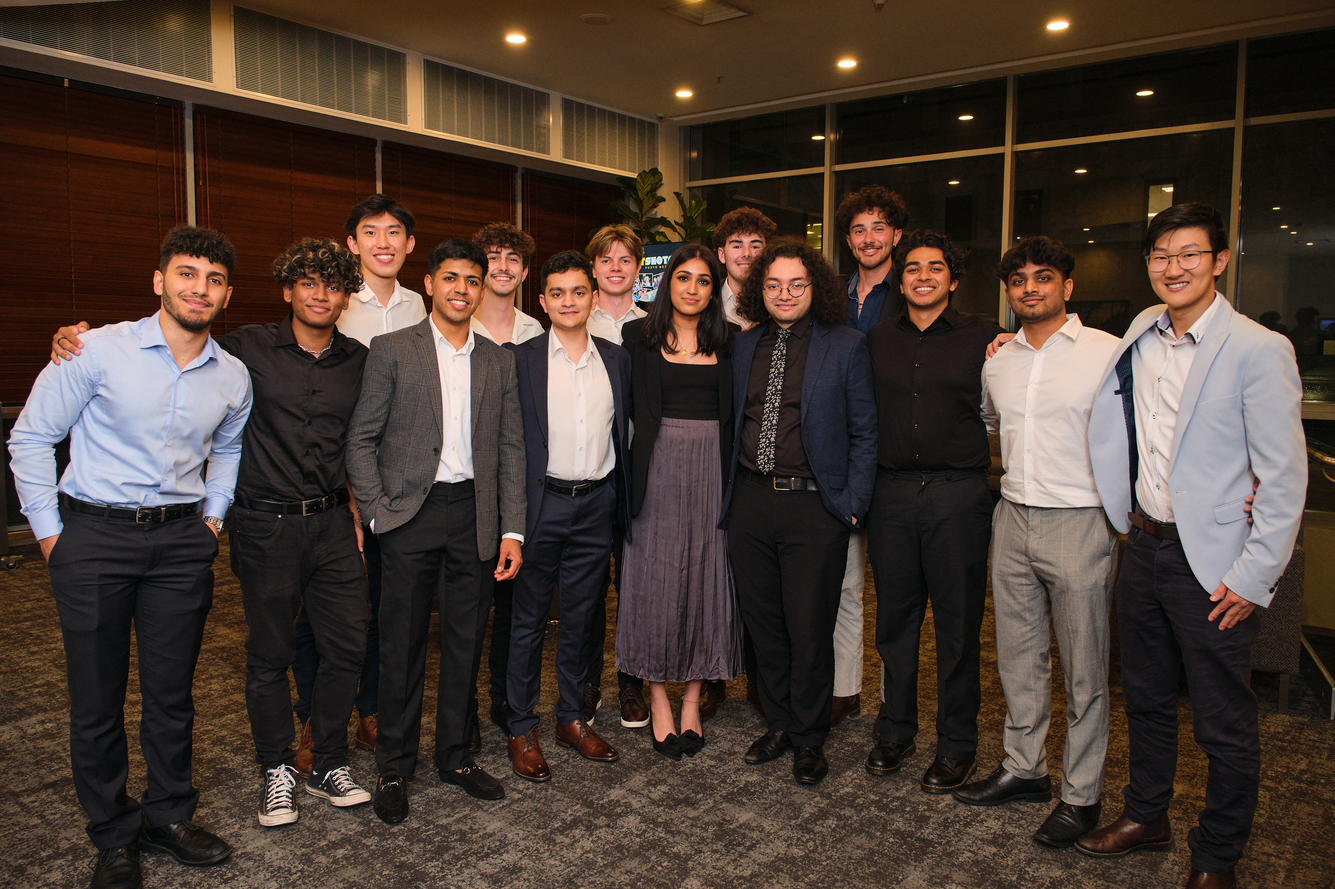
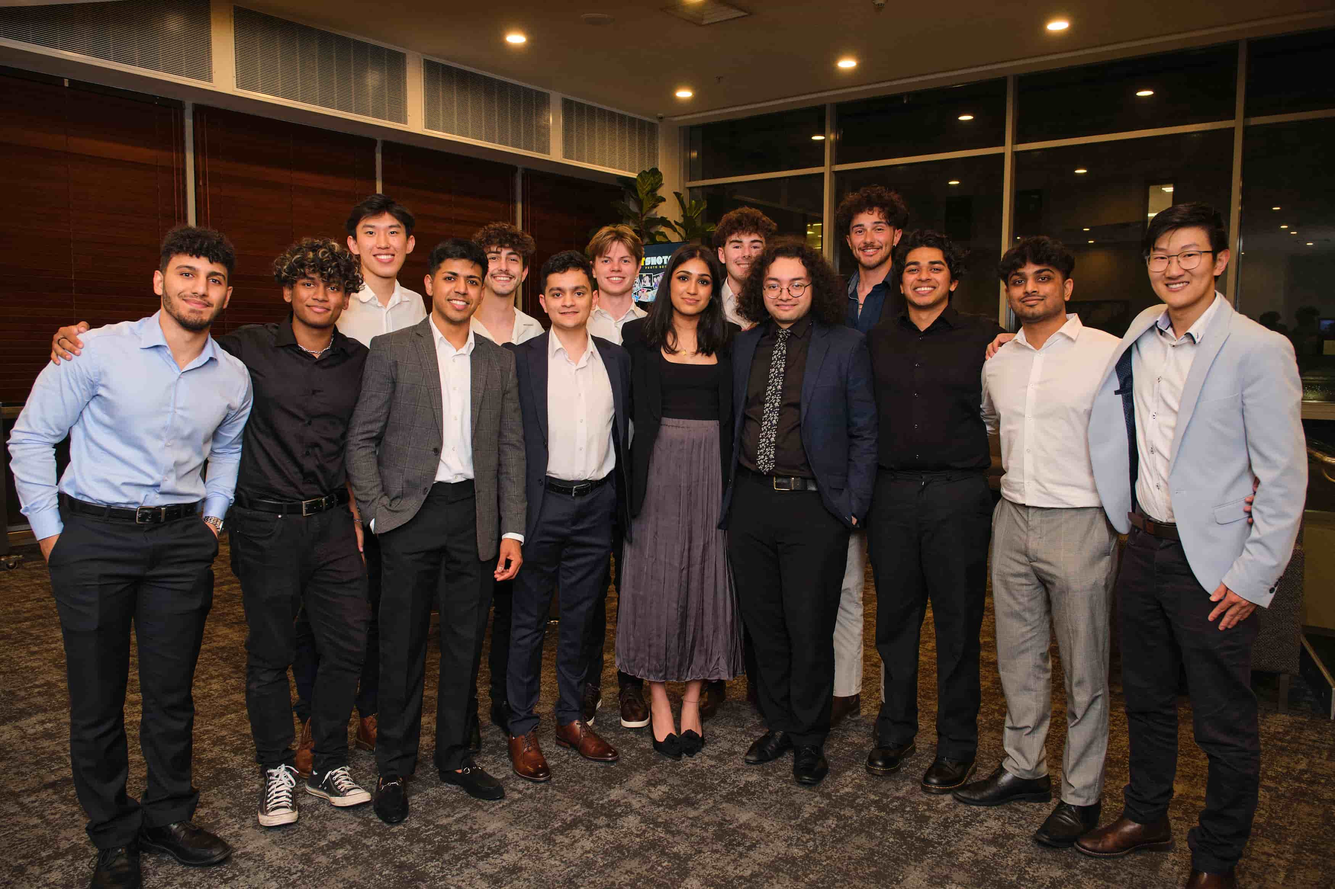
fix(slideshow)
* cacheImages on load
* Replaced some images with jpg version for optimised resolution

diff --git a/src/components/About.jsx b/src/components/About.jsx
@@ -11,6 +11,26 @@ import { useSpring, animated } from "react-spring";
 const About = () => {
   const [currentIndex, setCurrentIndex] = useState(0);
 
+  useEffect(() => {}, [currentIndex]);
+
+  useEffect(() => {
+    const img = [...titles.map((title) => title.img), profile]
+    cacheImages(img);
+  }, []);
+
+  const cacheImages = async (imgCacheArray) => {
+    const promises = await imgCacheArray.map((src) => {
+      return new Promise((resolve, reject) => {
+        const img = new Image();
+        img.src = src;
+        img.onload = resolve();
+        img.onerror = reject();
+      });
+    });
+    await Promise.all(promises);
+    console.log("Images cached!");
+  };
+
   const handleTypingFinish = (index) => {
     setCurrentIndex(index);
   };

diff --git a/src/assets/about-bgs/index.js b/src/assets/about-bgs/index.js
@@ -1,9 +1,9 @@
-export { default as code } from "./code.png";
+export { default as code } from "./code.jpg";
 export { default as sesa } from "./SESA.jpg";
 export { default as coffee } from "./coffee.jpg";
 export { default as foodie } from "./koreanbbq3.jpg";
 export { default as hooper } from "./hooper.jpg";
 export { default as leader } from "./leader.jpg";
 export { default as uoa } from "./uoa.jpg";
-export { default as p1ac } from "./P1AC.png";
-export { default as bg } from "./bg.png";
+export { default as p1ac } from "./P1AC.jpg";
+export { default as bg } from "./bg.jpg";
